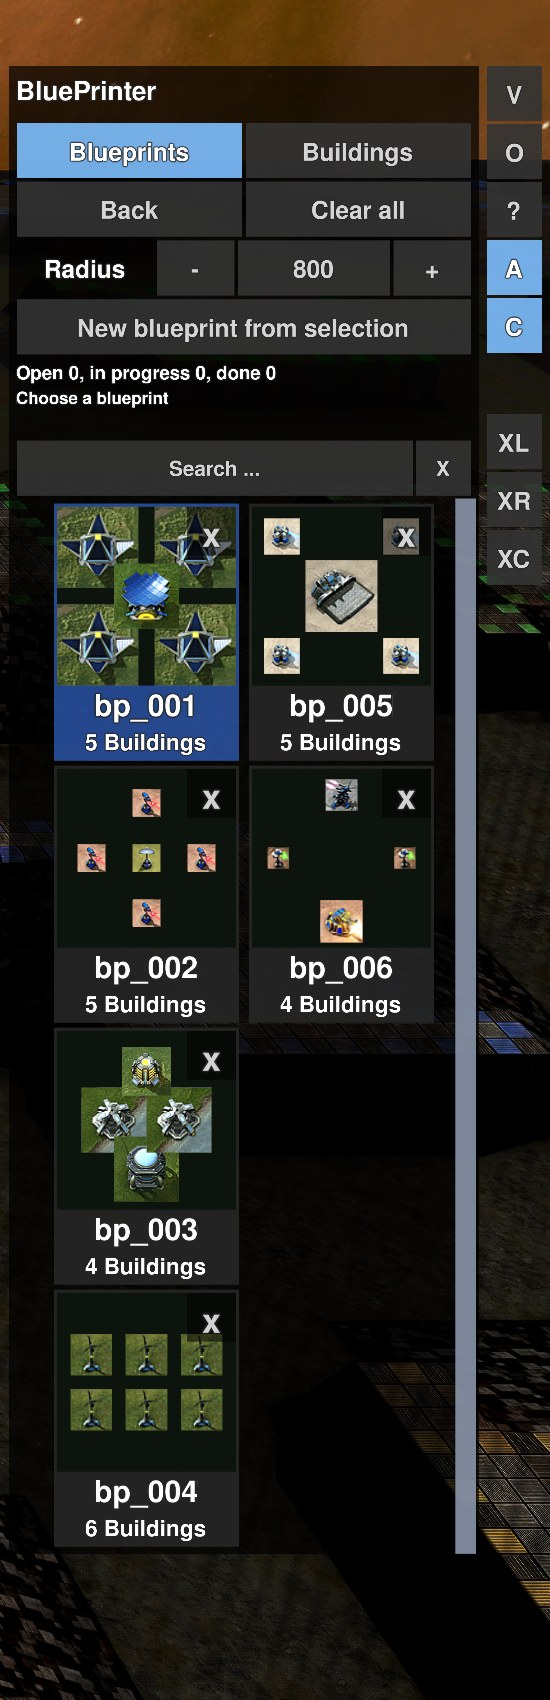
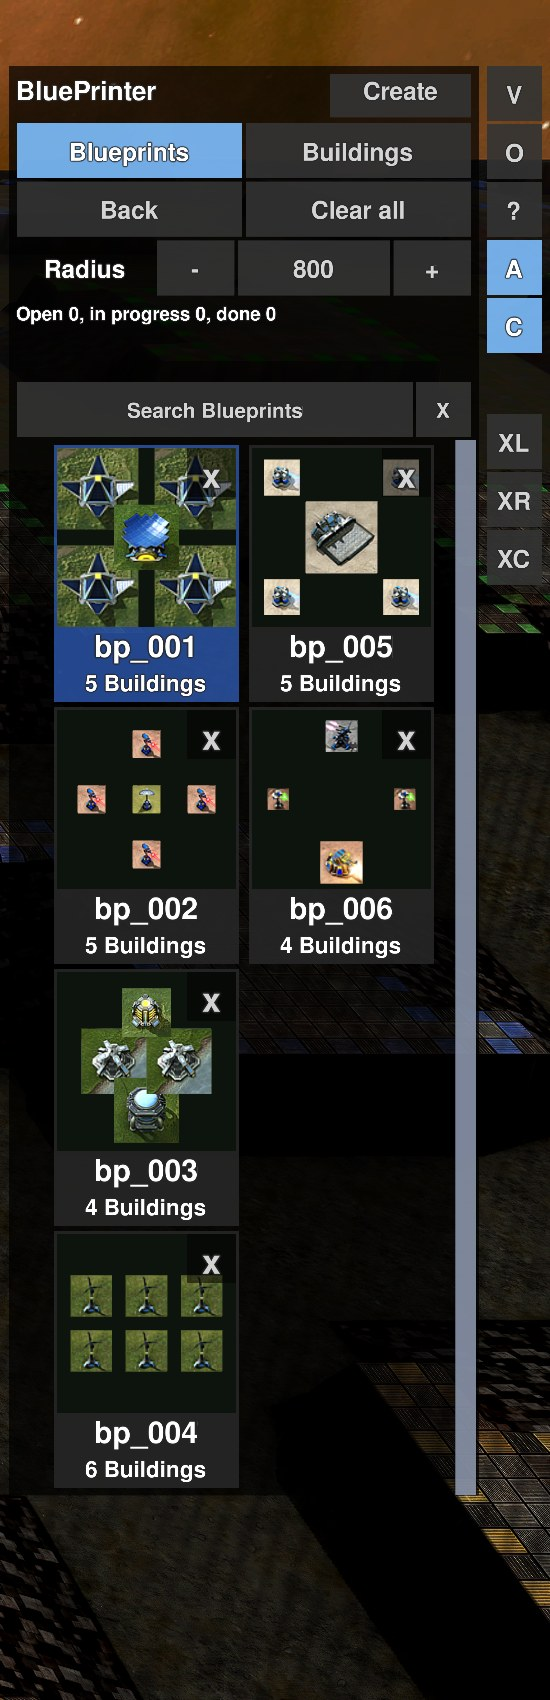
BluePrinter docs: Create button and new screenshots

Changed region(s): [[0.0309, 0.1559, 0.8655, 0.9041], [0.5873, 0.0312, 0.8655, 0.0935], [0.8036, 0.8729, 0.8655, 0.9353]]

diff --git a/BluePrinter/SPECIFICATION.md b/BluePrinter/SPECIFICATION.md
@@ -39,7 +39,6 @@ Shared code: `..\shared\editor_common.lua` (see `..\shared\SPECIFICATION.md`). S
 - Structure from the top: title "BluePrinter"; the buttons **V** (collapse/expand the menu: one click hides everything except the V, a second brings it back), **O** (settings), **?** (help), **A** (Auto-build on/off, default on) and **C** (commanders help build yes/no, default yes) and the experimental area attacks **XL** (line), **XR** (rectangle) and **XC** (circle) stand in a **column at the screen edge next to the menu** (one button of free space between C and the area attacks), one below the other, as in the Level Editor (all buttons use `Shared.drawButtons` with the height `HB` and font 26·S of the editor). Mode row **Blueprints | Buildings**, then the button rows:
   1. **Back** | **Clear all**
   2. **Radius** | **-** | input field | **+**: the field shows the current radius; click it, type a number (digits only, up to 5), Enter accepts, Esc cancels, a click elsewhere accepts; the value is limited to 200–6000. **-** and **+** change it in steps of 200 and the number follows at once.
-  3. **New blueprint from selection**
   Every button of the column has a tooltip (A and C also show the current state). There are no buttons for rotating and for the side of the menu (keys `[` `]`, Alt + mouse wheel and the chat commands `/bp_rotate`, `/bp_side` remain). After that the status lines ("Open N, in progress N, done N", "<hint>" (the rotation is visible in the 3D preview at the mouse pointer) and the "Remaining: …" line) and the content (grid or catalog). Active switches are light blue.
 
 ### 4.2 Mode "Blueprints"
@@ -47,7 +46,7 @@ Shared code: `..\shared\editor_common.lua` (see `..\shared\SPECIFICATION.md`). S
 - Clicking a tile chooses the blueprint and switches on stamp mode; **left click on the map queues it** (any number of times), **right click ends**.
 - Sorting by dragging, deleting with x (click twice, trash), renaming by double click – all as in the Level Editor.
 - **Search field** above the tiles (from `shared`): all words of the query must appear in the blueprint name or in code, name and description of the buildings inside; the tiles filter at once. Enter = done, Esc or X = clear; sorting by dragging is off while a search is active. A **scrollbar** (24·S wide) at the right edge appears when the list is longer than the area.
-- **New blueprint from selection** (button, **Ctrl+Alt+P**, chat `/bp_create`): saves the selected **buildings** (other units are ignored) as `bp_001`, `bp_002` … in `BluePrinter\blueprints` (position relative to the center, team 0), chooses it and switches the stamp on. Without selected buildings a message appears.
+- **Create** (blueprint from the selection; button at the top right of the title row, left of the button column, **Ctrl+Alt+P**, chat `/bp_create`): saves the selected **buildings** (other units are ignored) as `bp_001`, `bp_002` … in `BluePrinter\blueprints` (position relative to the center, team 0), chooses it and switches the stamp on. Without selected buildings a message appears.
 - If the list is empty: "No blueprints found".
 
 ### 4.3 Mode "Buildings" (single buildings)

diff --git a/BluePrinter/README.md b/BluePrinter/README.md
@@ -32,8 +32,8 @@ units in a blueprint are skipped. The team in the blueprint does not matter, it 
 - The small button **O** at the top right opens the settings: columns and rows of the grid (default 3 and 4) with - and +. They are stored in `LuaUI\Config\BluePrinterUI.lua` in the game folder.
 - Drag a tile with the mouse button held down = sort (a yellow mark shows the place, the order is remembered).
   Double click on the name = rename (type, Enter accepts, Esc cancels).
-- Ctrl+Alt+P (or `/bp_create`) = same as the button "New blueprint from selection".
-- Button "New blueprint from selection": the selected buildings are saved as `bp_001`, `bp_002` ... in `BluePrinter\blueprints`
+- Ctrl+Alt+P (or `/bp_create`) = same as the button **Create** at the top right of the title row.
+- Button **Create**: the selected buildings are saved as `bp_001`, `bp_002` ... in `BluePrinter\blueprints`
   and made ready for placing right away.
 - When placing, the widget shows the 3D models of the buildings in addition to the frames (semi-transparent, for large blueprints the 150 closest to the center). With `/bp_ghost` you check the mode (`gl` or `wg`, if the models are missing).
 - A **search field** sits above the blueprint tiles (and in the building catalog): type words of the description or the code, the list filters at once (Enter = done, Esc or X = clear; sorting is off while searching). The lists have a **scrollbar** at the right edge.
